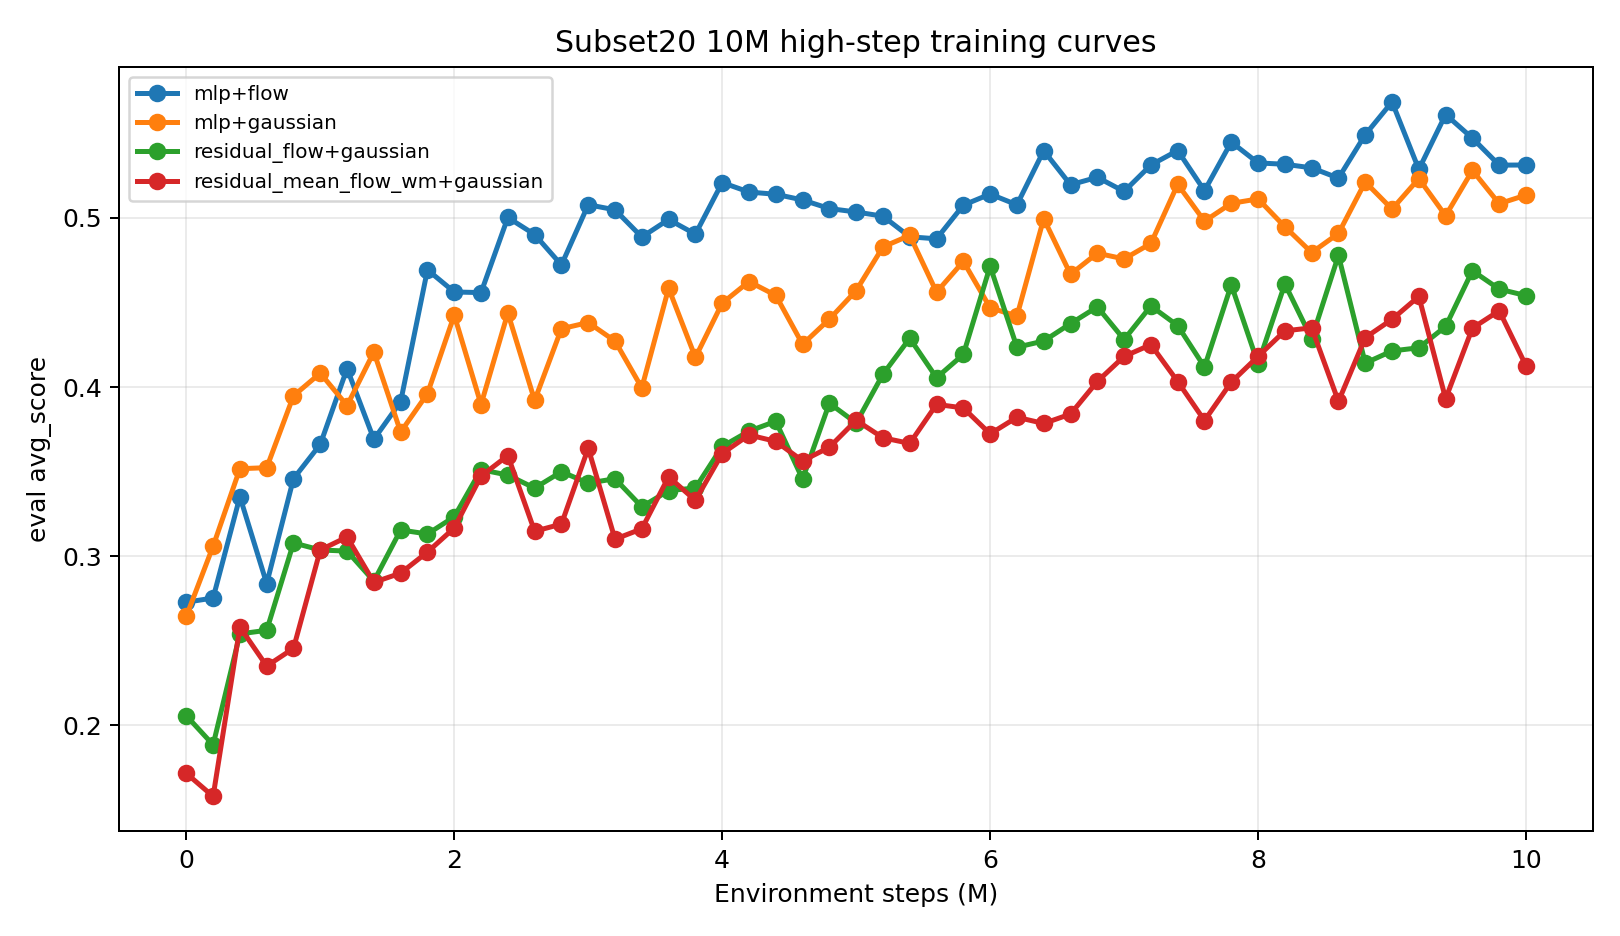
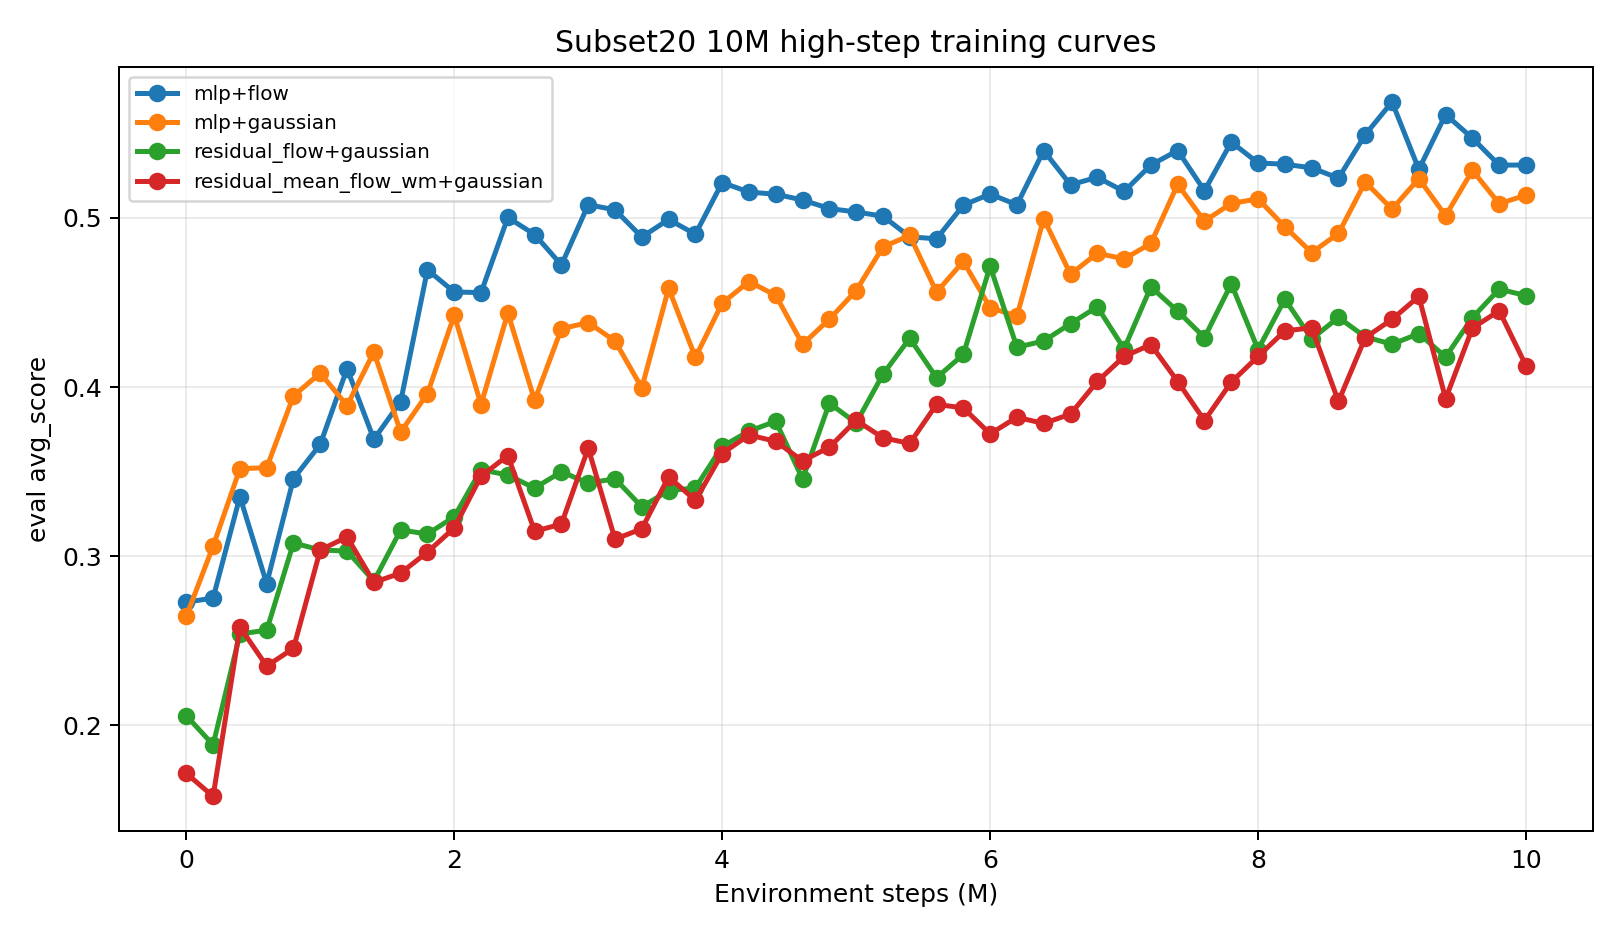
Update subset20 continuation records

Changed region(s): [[0.679, 0.2479, 0.9259, 0.4028]]

diff --git a/docs/subset20_high_steps_plan.md b/docs/subset20_high_steps_plan.md
@@ -892,6 +892,64 @@ Current read:
 - A100/L40S `residual_flow` are the only remaining incomplete subset20 flow-WM cells; both have been resubmitted.
 - True-seed repeats are now the main path for making the `MLP+flow` vs `MLP+gaussian` conclusion reportable rather than single-seed/hardware dependent.
 
+## 2026-06-12 20:17 EDT status check
+
+Regenerated ablation tables/figures with:
+
+```bash
+/storage/project/r-agarg35-0/eliu354/envs/newt_official_20260602/bin/python scripts/generate_ablation_insights.py --out-dir docs/assets/ablation_insights_20260610
+```
+
+Latest highest-step eval snapshot:
+
+| Run | Highest train step | Highest eval step | `avg_score` | Peak `avg_score` | Status |
+| --- | ---: | ---: | ---: | ---: | --- |
+| A100 `mlp + flow` | 10.0M | 10.0M | 0.57810 | 0.60544 | complete; best subset20 final/peak so far |
+| H200 `mlp + flow` | 10.0M | 10.0M | 0.53852 | 0.58663 | complete |
+| H100 `mlp + gaussian` | 10.0M | 10.0M | 0.53816 | 0.59102 | complete |
+| A100 `mlp + gaussian` | 10.0M | 10.0M | 0.53570 | 0.56490 | complete |
+| L40S `mlp + flow` | 10.0M | 10.0M | 0.50825 | 0.55390 | complete |
+| H100 `mlp + flow` | 10.0M | 10.0M | 0.50044 | 0.58825 | complete |
+| H200 `mlp + gaussian` | 10.0M | 10.0M | 0.49223 | 0.53666 | complete |
+| L40S `mlp + gaussian` | 10.0M | 10.0M | 0.48801 | 0.55139 | complete |
+| H100 `residual_mean_flow_wm + gaussian` | 10.0M | 10.0M | 0.48851 | 0.49207 | complete |
+| A100 `residual_flow + gaussian` | 7.88M | 7.8M | 0.46279 | 0.49115 | resubmitted |
+| H200 `residual_flow + gaussian` | 10.0M | 10.0M | 0.45510 | 0.49021 | complete |
+| H100 `residual_flow + gaussian` | 10.0M | 10.0M | 0.45304 | 0.51065 | complete |
+| L40S `residual_mean_flow_wm + gaussian` | 10.0M | 10.0M | 0.39409 | 0.44734 | complete |
+| L40S `residual_flow + gaussian` | 9.68M | 9.6M | 0.38556 | 0.46063 | resubmitted |
+| A100 `residual_mean_flow_wm + gaussian` | 10.0M | 10.0M | 0.37559 | 0.48471 | complete |
+
+Repair submissions:
+
+| Job | Partition | Array | Run tag | Cell | Reason |
+| ---: | --- | --- | --- | --- | --- |
+| `9883636` | `gpu-a100` | `2` | `a100-r1` | `residual_flow + gaussian` | Previous A100 continuation was preempted at 7.88M; resume from latest checkpoint. |
+| `9883638` | `gpu-l40s` | `2` | `l40s-r1` | `residual_flow + gaussian` | Previous L40S continuation was preempted at 9.68M; resume from latest checkpoint with `BATCH_SIZE=512` and `--cpus-per-task=4`. |
+
+True-seed repeat progress:
+
+| Run | Highest train step | Highest eval step | `avg_score` | Peak `avg_score` | Status |
+| --- | ---: | ---: | ---: | ---: | --- |
+| H200 seed2 `mlp + gaussian` | 5.96M | 5.8M | 0.50749 | 0.50749 | resubmitted as `9883635_0` |
+| H200 seed2 `mlp + flow` | 2.44M | 2.4M | 0.40574 | 0.42363 | resubmitted as `9883635_1` |
+| H200 seed3 `mlp + gaussian` | 1.82M | 1.8M | 0.39271 | 0.41236 | resubmitted as `9883637_0` |
+| H200 seed3 `mlp + flow` | 2.04M | 2.0M | 0.45539 | 0.46025 | resubmitted as `9883637_1` |
+
+Queue after resubmission:
+
+- `9883636_[2]`: A100 `residual_flow + gaussian`, pending for priority.
+- `9883638_[2]`: L40S `residual_flow + gaussian`, pending for priority.
+- `9883635_[0-1]`: H200 seed-2 repeats for `mlp + gaussian` and `mlp + flow`, pending for priority.
+- `9883637_[0-1]`: H200 seed-3 repeats for `mlp + gaussian` and `mlp + flow`, pending for priority.
+
+Current read:
+
+- Main conclusion remains unchanged: MLP-WM cells dominate subset20; flow-WM variants do not close the gap even when trained to 10M on H100/H200.
+- A100 `residual_flow` has improved to `0.46279` at 7.8M but still trails MLP-WM; L40S `residual_flow` is near target at 9.6M but low at `0.38556`.
+- The flow-WM comparison is nearly complete; only A100/L40S `residual_flow` need final 10M checkpoints.
+- True-seed repeats are still early and should remain running before drawing a seed-level conclusion.
+
 ## Success Criteria
 
 Primary metric:

diff --git a/docs/experiment_results_summary.md b/docs/experiment_results_summary.md
@@ -1,6 +1,6 @@
 # Experiment Results Summary
 
-Last updated: 2026-06-11 22:48 EDT
+Last updated: 2026-06-12 20:17 EDT
 
 Metric: `avg_score`, the Newt/MMBench normalized score averaged over evaluated tasks. This is the same normalized-score definition used by the official Newt paper, but our local subset20/subset40 results are not directly comparable to the official 200-task protocol.
 
@@ -66,12 +66,12 @@ Metric: `avg_score`, the Newt/MMBench normalized score averaged over evaluated t
 | Subset20 10M high-step | 20 | 10M target + 50k demo | MLP | flow | H200 | complete | 10.0M | 0.53852 | Reached 10M; peak observed eval was 0.58663 at 8.8M. |
 | Subset20 10M high-step | 20 | 10M target + 50k demo | MLP | Gaussian | A100 | complete | 10.0M | 0.53570 | Completed 10M; peak observed eval was 0.56490 at 9.4M. |
 | Subset20 10M high-step | 20 | 10M target + 50k demo | MLP | flow | A100 | complete | 10.0M | 0.57810 | Best subset20 final and peak MLP+flow run so far; peak observed eval was 0.60544 at 9.0M. |
-| Subset20 10M high-step | 20 | 10M target + 50k demo | residual_flow | Gaussian | L40S | resubmitted | 8.4M | 0.38918 | Resubmitted as `9852202_[2]`; peak observed eval was 0.45885 at 6.8M. |
+| Subset20 10M high-step | 20 | 10M target + 50k demo | residual_flow | Gaussian | L40S | resubmitted | 9.6M | 0.38556 | Preempted again and resubmitted as `9883638_[2]`; peak observed eval was 0.46063 at 8.8M. |
 | Subset20 10M high-step | 20 | 10M target + 50k demo | residual_mean_flow_wm | Gaussian | A100 | complete | 10.0M | 0.37559 | Reached 10M; peak observed eval was 0.48471 at 7.2M. |
 | Subset20 10M high-step | 20 | 10M target + 50k demo | residual_mean_flow_wm | Gaussian | H200 | complete | 10.0M | 0.39218 | Reached 10M; peak observed eval was 0.47535 at 9.0M. |
 | Subset20 10M high-step | 20 | 10M target + 50k demo | residual_mean_flow_wm | Gaussian | H100 | complete | 10.0M | 0.48851 | Completed 10M despite Slurm preemption label; peak observed eval was 0.49207 at 9.2M. |
 | Subset20 10M high-step | 20 | 10M target + 50k demo | residual_flow | Gaussian | H100 | complete | 10.0M | 0.45304 | Reached 10M; peak observed eval was 0.51065 at 6.0M. |
-| Subset20 10M high-step | 20 | 10M target + 50k demo | residual_flow | Gaussian | A100 | resubmitted | 7.4M | 0.42752 | Preempted again and resubmitted as `9852195_[2]`; peak observed eval was 0.50374 at 7.0M. |
+| Subset20 10M high-step | 20 | 10M target + 50k demo | residual_flow | Gaussian | A100 | resubmitted | 7.8M | 0.46279 | Preempted again and resubmitted as `9883636_[2]`; peak observed eval was 0.49115 at 7.2M. |
 | Subset20 10M high-step | 20 | 10M target + 50k demo | residual_mean_flow_wm | Gaussian | L40S | complete | 10.0M | 0.39409 | Reached 10M; peak observed eval was 0.44734 at 9.2M. |
 | Subset20 10M high-step | 20 | 10M target + 50k demo | residual_flow | Gaussian | H200 | complete | 10.0M | 0.45510 | Reached 10M; peak observed eval was 0.49021 at 9.6M. |
 
@@ -85,4 +85,4 @@ Current read:
 - The strongest completed original-style baseline remains `MLP + Gaussian`, with H100 0.53816 and A100 0.53570 at 10M; H200 reached 10M at 0.49223.
 - H100 `residual_flow + Gaussian` remains the strongest flow-WM signal by peak at 0.51065, but its 10M final is 0.45304 and it remains slower.
 - H200 `residual_flow + Gaussian` also finished at 10M with 0.45510 final, still below the MLP-WM baselines.
-- A100/L40S `residual_flow + Gaussian` were resubmitted as `9852195_[2]` and `9852202_[2]` to finish their remaining steps toward 10M.
+- A100/L40S `residual_flow + Gaussian` were resubmitted again as `9883636_[2]` and `9883638_[2]` to finish their remaining steps toward 10M.

diff --git a/docs/ablation_insights_summary.md b/docs/ablation_insights_summary.md
@@ -7,7 +7,7 @@ Source metrics:
 - Local run logs: `outputs/logs/soup/1/*/metrics.jsonl`
 - Generated tables/figures: `docs/assets/ablation_insights_20260610/`
 - W&B project: https://wandb.ai/danny010324/newt-flow-2x2
-- Latest figure refresh: 2026-06-11 22:48 EDT. The subset20 high-step CSVs and figures were regenerated after H200 residual_flow reached 10M and additional A100/L40S residual_flow continuation metrics arrived.
+- Latest figure refresh: 2026-06-12 20:17 EDT. The subset20 high-step CSVs and figures were regenerated after additional A100/L40S residual_flow continuation metrics arrived.
 
 Important caveat: `mean +/- std` below is over completed local runs across GPU/replicate labels, not over independent random seeds unless explicitly stated.
 
@@ -21,7 +21,7 @@ Important caveat: `mean +/- std` below is over completed local runs across GPU/r
 | Our subset40 best completed 2x2 | 40 | 5M + 50k demo | MLP WM | Flow policy | 5M | 0.321 +/- 0.012 | 0.339 | Mean +/- std over 4 completed runs; best single run 0.339. Best completed 2x2 architecture. |
 | Our subset40 best flow-WM | 40 | 5M + 50k demo | Residual_flow WM | Gaussian | 5M | 0.232 +/- 0.027 | 0.256 | Mean +/- std over 4 completed runs; best single run 0.256. Best flow-WM variant, still below MLP WM. |
 | Our subset20 strongest signal | 20 | 10M target + 50k demo | MLP WM | Flow policy | 10.0M | 0.500-0.578 | 0.605 | All four hardware/replicate labels reached 10M; A100 is best with 0.578 final and 0.605 peak. |
-| Our subset20 promising flow-WM | 20 | 10M target + 50k demo | Residual_flow WM | Gaussian | 7.4M-10.0M current | 0.389-0.455 | 0.511 | H100 residual_flow peak is still the strongest flow-WM signal; H100/H200 10M finals are 0.453/0.455 and remain below MLP-WM. |
+| Our subset20 promising flow-WM | 20 | 10M target + 50k demo | Residual_flow WM | Gaussian | 7.8M-10.0M current | 0.386-0.463 | 0.511 | H100 residual_flow peak is still the strongest flow-WM signal; H100/H200 10M finals are 0.453/0.455 and remain below MLP-WM. |
 
 ## Architecture Ablation
 
